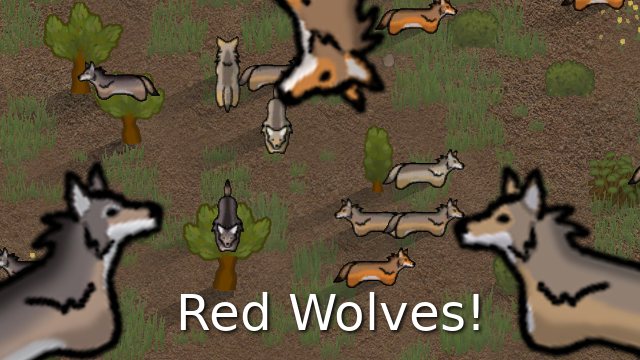
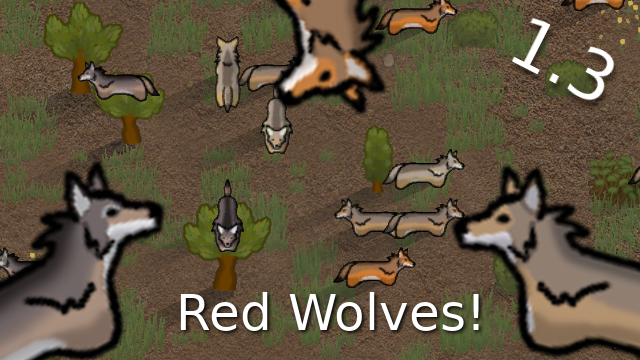
About + changelog

Changed region(s): [[0.8438, 0.1222, 0.9688, 0.3056], [0.7812, 0.0306, 0.875, 0.2139]]

diff --git a/changelog.md b/changelog.md
@@ -1,3 +1,12 @@
+# v1.4.0 - Rimworld 1.3 update
+**Features**
+- Updated to Rimworld 1.3 (Still compatable with 1.2 and earlier versions)
+- Additional content for the Pawnmorpher integration
+  - Added support for partial mutation graphics
+  - All red wolf mutations now have multiple stages
+  - New Red Wolfmorph backstories
+
+
 # v1.3.2 - Pawnmorpher patch update
 **Changes**
 - Updated the Pawnmorpher patch again for the new update (Thanks to IronWolf for providing an updated patch)
